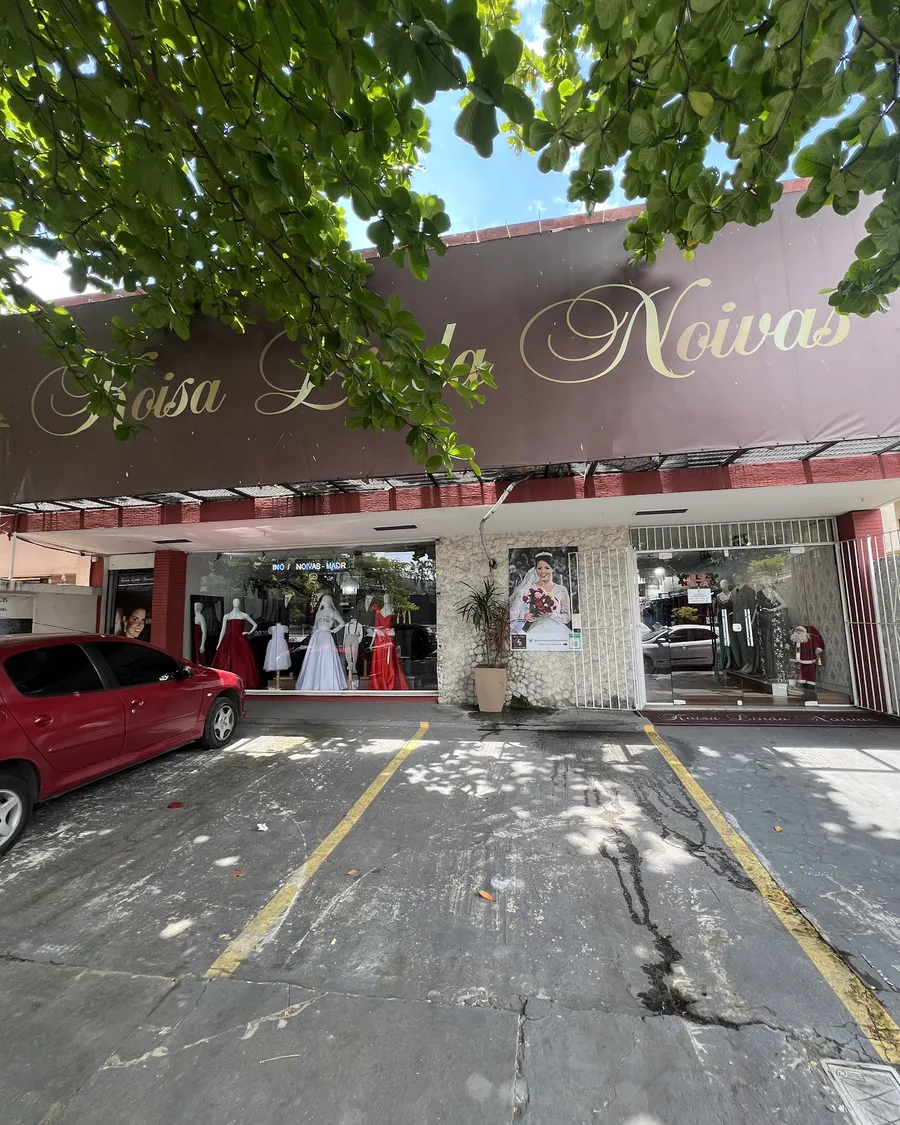
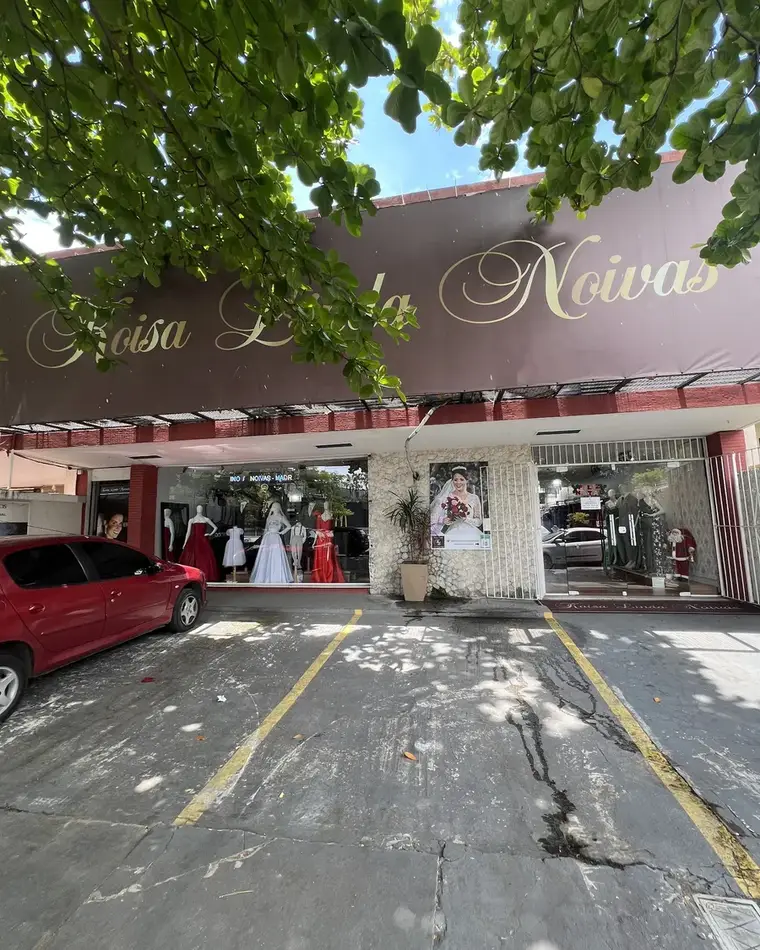
perf(site) + fotos reais em sobre/unidades
Otimizacao (Guilherme: 'ta muito pesado'):
- sobre.html: foto IA 2K via object/public (~731KB) -> fachada real SF 109KB
  (tambem cumpre a regra foto-real-no-site)
- fotos de loja recomprimidas: loja-sf 215->109KB, loja-barra 99->57KB (760w q70)
- home: 4 imgs de categoria render/image 900->640px (cards ~310px; -40% peso)
- home: preload do hero-noiva.webp (LCP mais rapido)
Fotos reais novas:
- unidades.html: fachada real em cada card (SF + Barra) — antes zero fotos

Changed region(s): [[0.9382, 0.4884, 0.9684, 0.5189], [0.4539, 0.4884, 0.4842, 0.5189]]

diff --git a/index.html b/index.html
@@ -17,7 +17,7 @@ document.addEventListener('click',function(e){
 },true);
 </script>
 <!-- End KL Lead tracking -->
-<meta name="viewport" content="width=device-width,initial-scale=1"><link rel="icon" href="img/favicon.ico" sizes="any"><link rel="icon" type="image/png" sizes="32x32" href="img/favicon-32.png"><link rel="icon" type="image/png" sizes="16x16" href="img/favicon-16.png"><link rel="apple-touch-icon" href="img/apple-touch-icon.png"><title>Koisa Linda — Costuramos sonhos desde 1994</title><meta name="description" content="Vestidos de festa para noivas, madrinhas, debutantes e convidadas. Aluguel e venda com ajuste sob medida. Desde 1994 em Niterói (São Francisco) e na Barra da Tijuca."><link rel="canonical" href="https://koisalinda.com.br/"><meta property="og:locale" content="pt_BR"><meta property="og:type" content="website"><meta property="og:site_name" content="Koisa Linda"><meta property="og:title" content="Koisa Linda — Costuramos sonhos desde 1994"><meta property="og:description" content="Vestidos de festa para noivas, madrinhas, debutantes e convidadas. Aluguel e venda com ajuste sob medida. Desde 1994 em Niterói (São Francisco) e na Barra da Tijuca."><meta property="og:url" content="https://koisalinda.com.br/"><meta property="og:image" content="https://koisalinda.com.br/img/hero.webp"><meta name="twitter:card" content="summary_large_image"><script type="application/ld+json">{"@context":"https://schema.org","@graph":[{"@type":"ClothingStore","name":"Koisa Linda — São Francisco (Matriz)","image":"https://koisalinda.com.br/img/hero.webp","url":"https://koisalinda.com.br/unidades.html","telephone":"+55 21 97085-8787","address":{"@type":"PostalAddress","streetAddress":"Av. Presidente Roosevelt, 37 — São Francisco","addressLocality":"Niterói","addressRegion":"RJ","addressCountry":"BR"},"openingHoursSpecification":[{"@type":"OpeningHoursSpecification","dayOfWeek":["Monday","Tuesday","Wednesday","Thursday","Friday"],"opens":"09:00","closes":"18:00"},{"@type":"OpeningHoursSpecification","dayOfWeek":"Saturday","opens":"09:00","closes":"14:00"}]},{"@type":"ClothingStore","name":"Koisa Linda — Barra da Tijuca","image":"https://koisalinda.com.br/img/hero.webp","url":"https://koisalinda.com.br/unidades.html","telephone":"+55 21 96647-5383","address":{"@type":"PostalAddress","streetAddress":"Av. das Américas, 500 — Shopping Downtown, Bloco 8, Loja 130 (loja interna)","addressLocality":"Rio de Janeiro","addressRegion":"RJ","addressCountry":"BR"},"openingHoursSpecification":[{"@type":"OpeningHoursSpecification","dayOfWeek":["Monday","Tuesday","Wednesday","Thursday","Friday","Saturday"],"opens":"09:00","closes":"19:00"}]}]}</script><link rel="preconnect" href="https://fonts.googleapis.com"><link rel="preconnect" href="https://fonts.gstatic.com" crossorigin><link href="https://fonts.googleapis.com/css2?family=Arapey:ital@0;1&family=Playfair+Display:ital,wght@0,400;0,600;1,400&family=Questrial&display=swap" rel="stylesheet"><style>
+<meta name="viewport" content="width=device-width,initial-scale=1"><link rel="icon" href="img/favicon.ico" sizes="any"><link rel="icon" type="image/png" sizes="32x32" href="img/favicon-32.png"><link rel="icon" type="image/png" sizes="16x16" href="img/favicon-16.png"><link rel="apple-touch-icon" href="img/apple-touch-icon.png"><title>Koisa Linda — Costuramos sonhos desde 1994</title><meta name="description" content="Vestidos de festa para noivas, madrinhas, debutantes e convidadas. Aluguel e venda com ajuste sob medida. Desde 1994 em Niterói (São Francisco) e na Barra da Tijuca."><link rel="canonical" href="https://koisalinda.com.br/"><meta property="og:locale" content="pt_BR"><meta property="og:type" content="website"><meta property="og:site_name" content="Koisa Linda"><meta property="og:title" content="Koisa Linda — Costuramos sonhos desde 1994"><meta property="og:description" content="Vestidos de festa para noivas, madrinhas, debutantes e convidadas. Aluguel e venda com ajuste sob medida. Desde 1994 em Niterói (São Francisco) e na Barra da Tijuca."><meta property="og:url" content="https://koisalinda.com.br/"><meta property="og:image" content="https://koisalinda.com.br/img/hero.webp"><meta name="twitter:card" content="summary_large_image"><script type="application/ld+json">{"@context":"https://schema.org","@graph":[{"@type":"ClothingStore","name":"Koisa Linda — São Francisco (Matriz)","image":"https://koisalinda.com.br/img/hero.webp","url":"https://koisalinda.com.br/unidades.html","telephone":"+55 21 97085-8787","address":{"@type":"PostalAddress","streetAddress":"Av. Presidente Roosevelt, 37 — São Francisco","addressLocality":"Niterói","addressRegion":"RJ","addressCountry":"BR"},"openingHoursSpecification":[{"@type":"OpeningHoursSpecification","dayOfWeek":["Monday","Tuesday","Wednesday","Thursday","Friday"],"opens":"09:00","closes":"18:00"},{"@type":"OpeningHoursSpecification","dayOfWeek":"Saturday","opens":"09:00","closes":"14:00"}]},{"@type":"ClothingStore","name":"Koisa Linda — Barra da Tijuca","image":"https://koisalinda.com.br/img/hero.webp","url":"https://koisalinda.com.br/unidades.html","telephone":"+55 21 96647-5383","address":{"@type":"PostalAddress","streetAddress":"Av. das Américas, 500 — Shopping Downtown, Bloco 8, Loja 130 (loja interna)","addressLocality":"Rio de Janeiro","addressRegion":"RJ","addressCountry":"BR"},"openingHoursSpecification":[{"@type":"OpeningHoursSpecification","dayOfWeek":["Monday","Tuesday","Wednesday","Thursday","Friday","Saturday"],"opens":"09:00","closes":"19:00"}]}]}</script><link rel="preload" as="image" href="img/hero-noiva.webp"><link rel="preconnect" href="https://fonts.googleapis.com"><link rel="preconnect" href="https://fonts.gstatic.com" crossorigin><link href="https://fonts.googleapis.com/css2?family=Arapey:ital@0;1&family=Playfair+Display:ital,wght@0,400;0,600;1,400&family=Questrial&display=swap" rel="stylesheet"><style>
 :root{
  --ruby:#722F37;--ruby-dark:#5a242b;--baunilha:#F4E5C4;--cream:#FBF7EF;--paper:#fff;
  --ink:#2c2326;--muted:#9a8d80;--line:#e9e0d2;--gold:#B8945F;--dark:#1e1512;
@@ -214,10 +214,10 @@ footer small{display:block;opacity:.55;font-family:var(--sans);font-size:10.5px;
   <div class="sec-title" style="margin-top:8px">O que você veio encontrar hoje?</div>
   <p>Toque no seu momento — a gente te leva direto para os vestidos certos.</p></div>
   <div class="cols">
-    <a class="col" href="catalogo.html?cat=vestidos-noiva"><img src="https://vguwohpsbodrxbrtrqkm.supabase.co/storage/v1/render/image/public/koisa-catalogo-barra/vestidos-noiva/NV-001-ia.jpg?width=900&resize=contain&quality=72&format=webp" alt="Vestido de noiva Koisa Linda" loading="lazy"><div class="ov"><small>Casamento</small><span>Sou noiva</span><p>Vestidos para cerimônia, civil, festa e o dia em que tudo precisa vestir bem.</p><div class="mini-cta">Ver noivas →</div></div></a>
-    <a class="col" href="catalogo.html?cat=vestidos-debutante"><img src="https://vguwohpsbodrxbrtrqkm.supabase.co/storage/v1/render/image/public/koisa-catalogo-barra/vestidos-debutante/DB-001-ia.jpg?width=900&resize=contain&quality=72&format=webp" alt="Vestido de debutante Koisa Linda" loading="lazy"><div class="ov"><small>15 anos</small><span>Sou debutante</span><p>Modelos para entrada, valsa, recepção e fotos — com presença sem perder leveza.</p><div class="mini-cta">Ver debutantes →</div></div></a>
-    <a class="col" href="catalogo.html?cat=vestidos-madrinha"><img src="https://vguwohpsbodrxbrtrqkm.supabase.co/storage/v1/render/image/public/koisa-catalogo-barra/vestidos-madrinha/MD-M-001-ia.jpg?width=900&resize=contain&quality=72&format=webp" alt="Vestido de madrinha e festa Koisa Linda" loading="lazy"><div class="ov"><small>Festa</small><span>Sou madrinha ou convidada</span><p>Vestidos por cor, tamanho e ocasião para chegar elegante sem ficar perdida.</p><div class="mini-cta">Ver festa →</div></div></a>
-    <a class="col" href="catalogo.html?cat=ternos"><img src="https://vguwohpsbodrxbrtrqkm.supabase.co/storage/v1/render/image/public/koisa-catalogo-barra/ternos/TR-001-ia.jpg?width=900&resize=contain&quality=72&format=webp" alt="Terno masculino Koisa Linda" loading="lazy"><div class="ov"><small>Masculino</small><span>Preciso de terno</span><p>Noivo, pai, padrinho ou convidado: traje alinhado na unidade Barra.</p><div class="mini-cta">Ver ternos →</div></div></a>
+    <a class="col" href="catalogo.html?cat=vestidos-noiva"><img src="https://vguwohpsbodrxbrtrqkm.supabase.co/storage/v1/render/image/public/koisa-catalogo-barra/vestidos-noiva/NV-001-ia.jpg?width=640&resize=contain&quality=72&format=webp" alt="Vestido de noiva Koisa Linda" loading="lazy"><div class="ov"><small>Casamento</small><span>Sou noiva</span><p>Vestidos para cerimônia, civil, festa e o dia em que tudo precisa vestir bem.</p><div class="mini-cta">Ver noivas →</div></div></a>
+    <a class="col" href="catalogo.html?cat=vestidos-debutante"><img src="https://vguwohpsbodrxbrtrqkm.supabase.co/storage/v1/render/image/public/koisa-catalogo-barra/vestidos-debutante/DB-001-ia.jpg?width=640&resize=contain&quality=72&format=webp" alt="Vestido de debutante Koisa Linda" loading="lazy"><div class="ov"><small>15 anos</small><span>Sou debutante</span><p>Modelos para entrada, valsa, recepção e fotos — com presença sem perder leveza.</p><div class="mini-cta">Ver debutantes →</div></div></a>
+    <a class="col" href="catalogo.html?cat=vestidos-madrinha"><img src="https://vguwohpsbodrxbrtrqkm.supabase.co/storage/v1/render/image/public/koisa-catalogo-barra/vestidos-madrinha/MD-M-001-ia.jpg?width=640&resize=contain&quality=72&format=webp" alt="Vestido de madrinha e festa Koisa Linda" loading="lazy"><div class="ov"><small>Festa</small><span>Sou madrinha ou convidada</span><p>Vestidos por cor, tamanho e ocasião para chegar elegante sem ficar perdida.</p><div class="mini-cta">Ver festa →</div></div></a>
+    <a class="col" href="catalogo.html?cat=ternos"><img src="https://vguwohpsbodrxbrtrqkm.supabase.co/storage/v1/render/image/public/koisa-catalogo-barra/ternos/TR-001-ia.jpg?width=640&resize=contain&quality=72&format=webp" alt="Terno masculino Koisa Linda" loading="lazy"><div class="ov"><small>Masculino</small><span>Preciso de terno</span><p>Noivo, pai, padrinho ou convidado: traje alinhado na unidade Barra.</p><div class="mini-cta">Ver ternos →</div></div></a>
   </div>
 </section>
 

diff --git a/unidades.html b/unidades.html
@@ -88,6 +88,7 @@ footer small{display:block;opacity:.55;font-family:var(--sans);font-size:10.5px;
 .svc .ic{font-size:26px;color:var(--gold);margin-bottom:12px}
 /* UNIDADES */
 .units{max-width:1200px;margin:36px auto 0;display:grid;grid-template-columns:repeat(3,1fr);gap:26px}
+.unit-ph{width:100%;aspect-ratio:4/3;object-fit:cover;border-radius:8px;margin-bottom:18px}
 .unit{background:var(--paper);border:1px solid var(--line);border-radius:4px;padding:30px 28px;text-align:center}
 .unit h3{font-family:var(--serif);font-size:27px;color:var(--ink);margin-bottom:4px}
 .unit .city{font-family:var(--sans);font-size:11px;letter-spacing:2px;text-transform:uppercase;color:var(--gold);margin-bottom:16px}
@@ -136,8 +137,8 @@ footer small{display:block;opacity:.55;font-family:var(--sans);font-size:10.5px;
 <div class="phero"><div class="eyebrow">Onde estamos</div><h1>Nossas Unidades</h1>
   <p>Duas lojas no Rio de Janeiro, com atendimento personalizado e agendamento de prova.</p><div class="rule"></div></div>
 <section class="section"><div class="units">
-  <div class="unit"><h3>São Francisco</h3><div class="city">Niterói · RJ</div><p>Av. Pres. Roosevelt, 37 — São Francisco, Niterói</p><div class="hr">Seg–Sex 09h–18h · Sáb 09h–14h</div><div class="acts"><a class="mini fill" href="https://wa.me/5521970858787" target="_blank">WhatsApp</a><a class="mini" href="https://www.google.com/maps/search/?api=1&query=Av.+Pres.+Roosevelt+37+Sao+Francisco+Niteroi" target="_blank">Como chegar</a></div></div>
-  <div class="unit"><h3>Barra da Tijuca</h3><div class="city">Rio de Janeiro · RJ</div><p>Av. das Américas, 500 — Shopping Downtown<br><b style="color:#722F37">Bloco 8, Loja 130 (loja interna)</b> — Barra da Tijuca</p><div class="hr">Seg–Sáb 9h–19h</div><div class="acts"><a class="mini fill" href="https://wa.me/5521966475383" target="_blank">WhatsApp</a><a class="mini" href="como-chegar.html">📍 Como chegar no Downtown</a></div></div>
+  <div class="unit"><img class="unit-ph" src="img/loja-sf.webp" alt="Fachada da loja São Francisco" loading="lazy"><h3>São Francisco</h3><div class="city">Niterói · RJ</div><p>Av. Pres. Roosevelt, 37 — São Francisco, Niterói</p><div class="hr">Seg–Sex 09h–18h · Sáb 09h–14h</div><div class="acts"><a class="mini fill" href="https://wa.me/5521970858787" target="_blank">WhatsApp</a><a class="mini" href="https://www.google.com/maps/search/?api=1&query=Av.+Pres.+Roosevelt+37+Sao+Francisco+Niteroi" target="_blank">Como chegar</a></div></div>
+  <div class="unit"><img class="unit-ph" src="img/loja-barra.webp" alt="Fachada da loja Barra no Downtown" loading="lazy"><h3>Barra da Tijuca</h3><div class="city">Rio de Janeiro · RJ</div><p>Av. das Américas, 500 — Shopping Downtown<br><b style="color:#722F37">Bloco 8, Loja 130 (loja interna)</b> — Barra da Tijuca</p><div class="hr">Seg–Sáb 9h–19h</div><div class="acts"><a class="mini fill" href="https://wa.me/5521966475383" target="_blank">WhatsApp</a><a class="mini" href="como-chegar.html">📍 Como chegar no Downtown</a></div></div>
 </div></section>
 <div class="band"><h2>Agende a sua prova</h2><p>Fale com a unidade mais perto de você.</p>
   <a class="btn-pri" href="catalogo.html">Ver catálogo</a></div>

diff --git a/sobre.html b/sobre.html
@@ -137,7 +137,7 @@ footer small{display:block;opacity:.55;font-family:var(--sans);font-size:10.5px;
   <p>Beleza consciente, elegância e propósito em cada peça.</p><div class="rule"></div></div>
 <section class="section">
   <div class="split">
-    <img src="https://vguwohpsbodrxbrtrqkm.supabase.co/storage/v1/object/public/koisa-catalogo-barra/vestidos-noiva/NV-006-ia.jpg">
+    <img src="img/loja-sf.webp" alt="Fachada da Koisa Linda São Francisco, a matriz em Niterói" loading="lazy">
     <div class="tx">
       <div class="eyebrow">Nossa história</div>
       <div class="sec-title" style="text-align:left;margin-top:8px">Mais de três décadas<br>costurando sonhos</div>